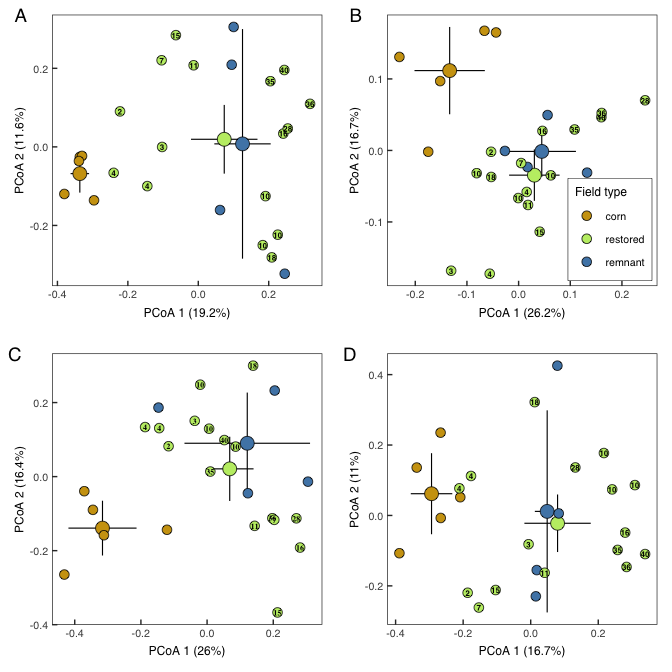
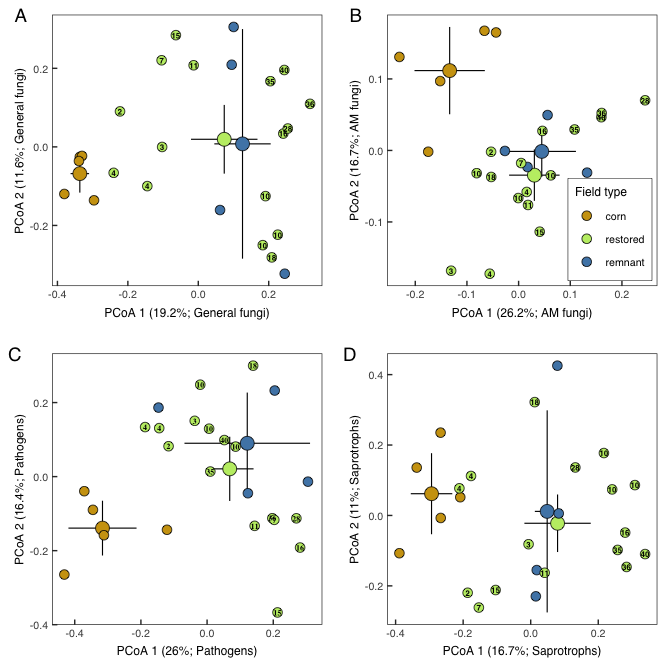
REFRESHED reports

diff --git a/fungal_ecology.md b/fungal_ecology.md
@@ -2,7 +2,7 @@ Results: Soil Fungal Communities
 ================
 Beau Larkin
 
-Last updated: 03 August, 2026
+Last updated: 04 August, 2026
 
 - [Description](#description)
 - [Packages and libraries](#packages-and-libraries)
@@ -1685,10 +1685,6 @@ check_overdispersion(sapro_rich_glm_i) # not overdispersed
 augment(sapro_rich_glm_i) # corn site has cooks >0.9
 ```
 
-    ## Warning: The `augment()` method for objects of class `negbin` is not maintained by the broom team, and is only supported through the `glm` tidier method. Please be cautious in interpreting and reporting broom output.
-    ## 
-    ## This warning is displayed once per session.
-
     ## # A tibble: 25 × 9
     ##    richness depth_csq field_type .fitted  .resid   .hat .sigma  .cooksd .std.resid
     ##       <int>     <dbl> <fct>        <dbl>   <dbl>  <dbl>  <dbl>    <dbl>      <dbl>
@@ -3118,8 +3114,8 @@ its_ord <-
   geom_point(aes(fill = field_type), size = sm_size, stroke = lw, shape = 21) +
   geom_text(aes(label = yr_since), size = yrtx_size, family = "sans", fontface = 2, color = "black") +
   labs(
-    x = paste0("PCoA 1 (", mva_its$axis_pct[1], "%)"),
-    y = paste0("PCoA 2 (", mva_its$axis_pct[2], "%)")) +
+    x = paste0("PCoA 1 (", mva_its$axis_pct[1], "%; General fungi)"),
+    y = paste0("PCoA 2 (", mva_its$axis_pct[2], "%; General fungi)")) +
   scale_fill_manual(values = ft_pal) +
   theme_ord +
   theme(legend.position = "none",
@@ -3220,8 +3216,8 @@ amf_ord <-
   geom_text(aes(label = yr_since), size = yrtx_size, family = "sans", fontface = 2, color = "black") +
   scale_fill_manual(name = "Field type", values = ft_pal) +
   labs(
-    x = paste0("PCoA 1 (", mva_amf$axis_pct[1], "%)"),
-    y = paste0("PCoA 2 (", mva_amf$axis_pct[2], "%)")) +
+    x = paste0("PCoA 1 (", mva_amf$axis_pct[1], "%; AM fungi)"),
+    y = paste0("PCoA 2 (", mva_amf$axis_pct[2], "%; AM fungi)")) +
   theme_ord +
   theme(legend.position = c(0.98, 0.02),
         legend.justification = c(1, 0),
@@ -3328,8 +3324,8 @@ amf_ma_ord <-
   scale_y_continuous(breaks = c(-0.25, 0, 0.25)) +
   scale_fill_manual(name = "Field Type", values = ft_pal) +
   labs(
-    x = paste0("PCoA 1 (", mva_amf_ma$axis_pct[1], "%)"),
-    y = paste0("PCoA 2 (", mva_amf_ma$axis_pct[2], "%)")) +
+    x = paste0("PCoA 1 (", mva_amf_ma$axis_pct[1], "%; AM fungi)"),
+    y = paste0("PCoA 2 (", mva_amf_ma$axis_pct[2], "%; AM fungi)")) +
   theme_ord +
   theme(legend.title = element_text(size = 9, face = 1),
         legend.text = element_text(size = 8, face = 1))
@@ -3460,8 +3456,8 @@ patho_ord <-
   geom_text(aes(label = yr_since), size = yrtx_size, family = "serif", fontface = 2, color = "black") +
   scale_fill_manual(values = ft_pal) +
   labs(
-    x = paste0("PCoA 1 (", mva_patho$axis_pct[1], "%)"),
-    y = paste0("PCoA 2 (", mva_patho$axis_pct[2], "%)")) +
+    x = paste0("PCoA 1 (", mva_patho$axis_pct[1], "%; Pathogens)"),
+    y = paste0("PCoA 2 (", mva_patho$axis_pct[2], "%; Pathogens)")) +
   theme_ord +
   theme(legend.position = "none",
         plot.tag = element_text(size = 14, face = 1),
@@ -3560,8 +3556,8 @@ sapro_ord <-
   geom_text(aes(label = yr_since), size = yrtx_size, family = "sans", fontface = 2, color = "black") +
   scale_fill_manual(values = ft_pal) +
   labs(
-    x = paste0("PCoA 1 (", mva_sapro$axis_pct[1], "%)"),
-    y = paste0("PCoA 2 (", mva_sapro$axis_pct[2], "%)")) +
+    x = paste0("PCoA 1 (", mva_sapro$axis_pct[1], "%; Saprotrophs)"),
+    y = paste0("PCoA 2 (", mva_sapro$axis_pct[2], "%; Saprotrophs)")) +
   theme_ord +
   theme(legend.position = "none",
         plot.tag = element_text(size = 14, face = 1),
@@ -4458,8 +4454,8 @@ fig4a <-
   geom_point(aes(fill = field_type), size = sm_size, stroke = lw, shape = 21) +
   geom_text(aes(label = yr_since), size = yrtx_size, family = "sans", fontface = 2, color = "black") +
   labs(
-    x = paste0("db-RDA 1 (", mod_axpct[1], "%)"),
-    y = paste0("db-RDA 2 (", mod_axpct[2], "%)")) +
+    x = paste0("db-RDA 1 (", mod_axpct[1], "%; General fungi)"),
+    y = paste0("db-RDA 2 (", mod_axpct[2], "%; General fungi)")) +
   scale_x_continuous(limits = c(-1.5,1.4), breaks = c(-1, 0, 1)) +
   scale_y_continuous(breaks = c(-1, 0, 1)) +
   scale_fill_manual(values = ft_pal[2:3]) +
@@ -4484,8 +4480,8 @@ fig4b <-
   geom_point(aes(fill = field_type), size = sm_size, stroke = lw, shape = 21) +
   geom_text(aes(label = yr_since), size = yrtx_size, family = "sans", fontface = 2, color = "black") +
   labs(
-    x = paste0("db-RDA 1 (", amf_mod_axpct[1], "%)"),
-    y = paste0("db-RDA 2 (", amf_mod_axpct[2], "%)")) +
+    x = paste0("db-RDA 1 (", amf_mod_axpct[1], "%; AM fungi)"),
+    y = paste0("db-RDA 2 (", amf_mod_axpct[2], "%; AM fungi)")) +
   scale_x_continuous(limits = c(-1.3,1.3), breaks = c(-1, 0, 1)) +
   scale_y_continuous(limits = c(-1.2, 0.95), breaks = c(-1, 0, 1)) +
   scale_fill_manual(values = ft_pal[2:3]) +
@@ -4510,8 +4506,8 @@ fig4c <-
   geom_point(aes(fill = field_type), size = sm_size, stroke = lw, shape = 21) +
   geom_text(aes(label = yr_since), size = yrtx_size, family = "sans", fontface = 2, color = "black") +
   labs(
-    x = paste0("db-RDA 1 (", patho_mod_step_eig[1], "%)"),
-    y = paste0("db-RDA 2 (", patho_mod_step_eig[2], "%)")) +
+    x = paste0("db-RDA 1 (", patho_mod_step_eig[1], "%; Pathogens)"),
+    y = paste0("db-RDA 2 (", patho_mod_step_eig[2], "%; Pathogens)")) +
   scale_x_continuous(limits = c(-1.3,1.3), breaks = c(-1, 0, 1)) +
   scale_y_continuous(breaks = c(-1, 0, 1)) +
   scale_fill_manual(values = ft_pal[2:3]) +
@@ -4536,8 +4532,8 @@ fig4d <-
   geom_point(aes(fill = field_type), size = sm_size, stroke = lw, shape = 21) +
   geom_text(aes(label = yr_since), size = yrtx_size, family = "sans", fontface = 2, color = "black") +
   labs(
-    x = paste0("db-RDA 1 (", sapro_mod_axpct[1], "%)"),
-    y = paste0("db-RDA 2 (", sapro_mod_axpct[2], "%)")) +
+    x = paste0("db-RDA 1 (", sapro_mod_axpct[1], "%; Saprotrophs)"),
+    y = paste0("db-RDA 2 (", sapro_mod_axpct[2], "%; Saprotrophs)")) +
   lims(x = c(-1.5,1.5)) +
   scale_y_continuous(breaks = c(-1, 0, 1)) +
   scale_fill_manual(name = "Field type", values = ft_pal[2:3]) +

diff --git a/edaphic.md b/edaphic.md
@@ -2,7 +2,7 @@ Soil properties
 ================
 Beau Larkin
 
-Last updated: 03 August, 2026
+Last updated: 04 August, 2026
 
 - [Description](#description)
 - [Packages and libraries](#packages-and-libraries)
@@ -44,53 +44,6 @@ to_install <- setdiff(packages_needed, rownames(installed.packages()))
 if (length(to_install)) install.packages(to_install)
 invisible(lapply(packages_needed, library, character.only = TRUE))
 ```
-
-    ## ── Attaching core tidyverse packages ──────────────────────────────────────────────────────────────────────────────────────────── tidyverse 2.0.0 ──
-    ## ✔ dplyr     1.2.1     ✔ readr     2.2.0
-    ## ✔ forcats   1.0.1     ✔ stringr   1.6.0
-    ## ✔ ggplot2   4.0.3     ✔ tibble    3.3.1
-    ## ✔ lubridate 1.9.5     ✔ tidyr     1.3.2
-    ## ✔ purrr     1.2.2     
-    ## ── Conflicts ────────────────────────────────────────────────────────────────────────────────────────────────────────────── tidyverse_conflicts() ──
-    ## ✖ dplyr::filter() masks stats::filter()
-    ## ✖ dplyr::lag()    masks stats::lag()
-    ## ℹ Use the conflicted package (<http://conflicted.r-lib.org/>) to force all conflicts to become errors
-    ## Loading required package: permute
-    ## 
-    ## 
-    ## Attaching package: 'ape'
-    ## 
-    ## 
-    ## The following object is masked from 'package:dplyr':
-    ## 
-    ##     where
-    ## 
-    ## 
-    ## Registered S3 methods overwritten by 'adegraphics':
-    ##   method         from
-    ##   biplot.dudi    ade4
-    ##   kplot.foucart  ade4
-    ##   kplot.mcoa     ade4
-    ##   kplot.mfa      ade4
-    ##   kplot.pta      ade4
-    ##   kplot.sepan    ade4
-    ##   kplot.statis   ade4
-    ##   scatter.coa    ade4
-    ##   scatter.dudi   ade4
-    ##   scatter.nipals ade4
-    ##   scatter.pco    ade4
-    ##   score.acm      ade4
-    ##   score.mix      ade4
-    ##   score.pca      ade4
-    ##   screeplot.dudi ade4
-    ## 
-    ## Registered S3 method overwritten by 'spdep':
-    ##   method   from
-    ##   plot.mst ape 
-    ## 
-    ## Registered S3 method overwritten by 'adespatial':
-    ##   method          from       
-    ##   plot.multispati adegraphics
 
 ## Root path function
 
@@ -268,11 +221,11 @@ forward.sel(soil_z, mem, alpha = 0.05, nperm = 1999)
     ## Testing variable 1
     ## Testing variable 2
     ## Testing variable 3
-    ## Procedure stopped (alpha criteria): pvalue for variable 3 is 0.270000 (> 0.050000)
+    ## Procedure stopped (alpha criteria): pvalue for variable 3 is 0.266500 (> 0.050000)
 
     ##   variables order        R2     R2Cum  AdjR2Cum        F pvalue
-    ## 1      MEM3     3 0.1621929 0.1621929 0.1257666 4.452622 0.0015
-    ## 2      MEM1     1 0.1373308 0.2995238 0.2358441 4.313178 0.0005
+    ## 1      MEM3     3 0.1621929 0.1621929 0.1257666 4.452622  2e-03
+    ## 2      MEM1     1 0.1373308 0.2995238 0.2358441 4.313178  5e-04
 
 ``` r
 soil_mem_rda <- rda(soil_z, mem[, c(1,3)])

diff --git a/sites.md b/sites.md
@@ -2,7 +2,7 @@ Site locations and pairwise distances
 ================
 Beau Larkin
 
-Last updated: 03 August, 2026
+Last updated: 04 August, 2026
 
 - [Description](#description)
 - [Package and library installation](#package-and-library-installation)

diff --git a/sequence_data.md b/sequence_data.md
@@ -2,7 +2,7 @@ Species Data: ETL and Diagnostics
 ================
 Beau Larkin
 
-Last updated: 03 August, 2026
+Last updated: 04 August, 2026
 
 - [Description](#description)
 - [Resources](#resources)

diff --git a/functions.md b/functions.md
@@ -2,7 +2,7 @@ Supplement: Functions
 ================
 Beau Larkin
 
-Last updated: 03 August, 2026
+Last updated: 04 August, 2026
 
 - [Description](#description)
   - [Sequence data processing
